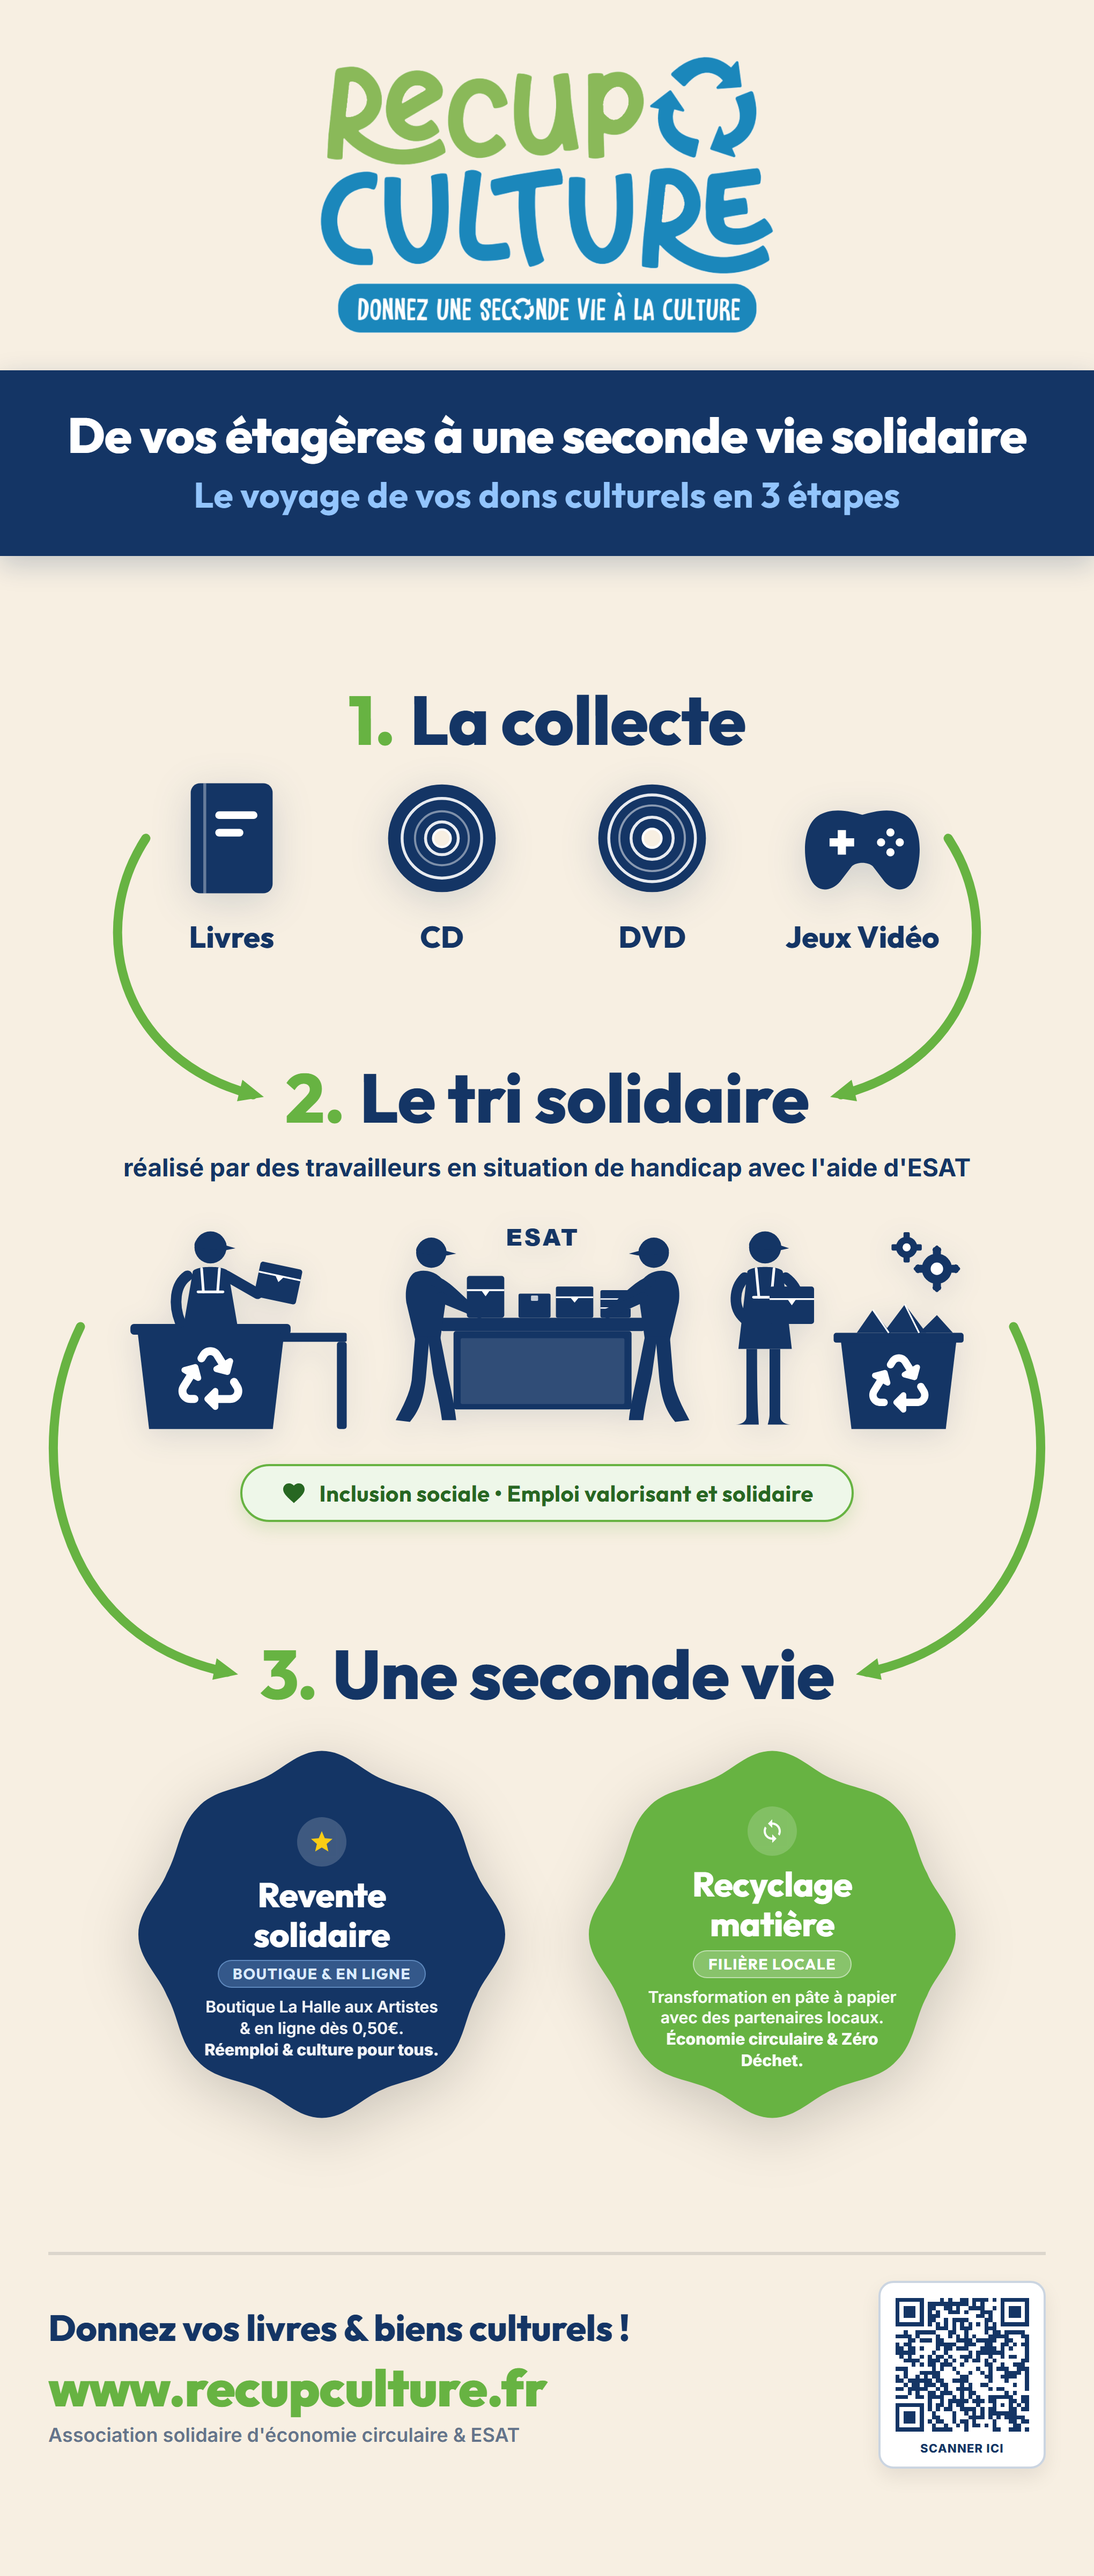
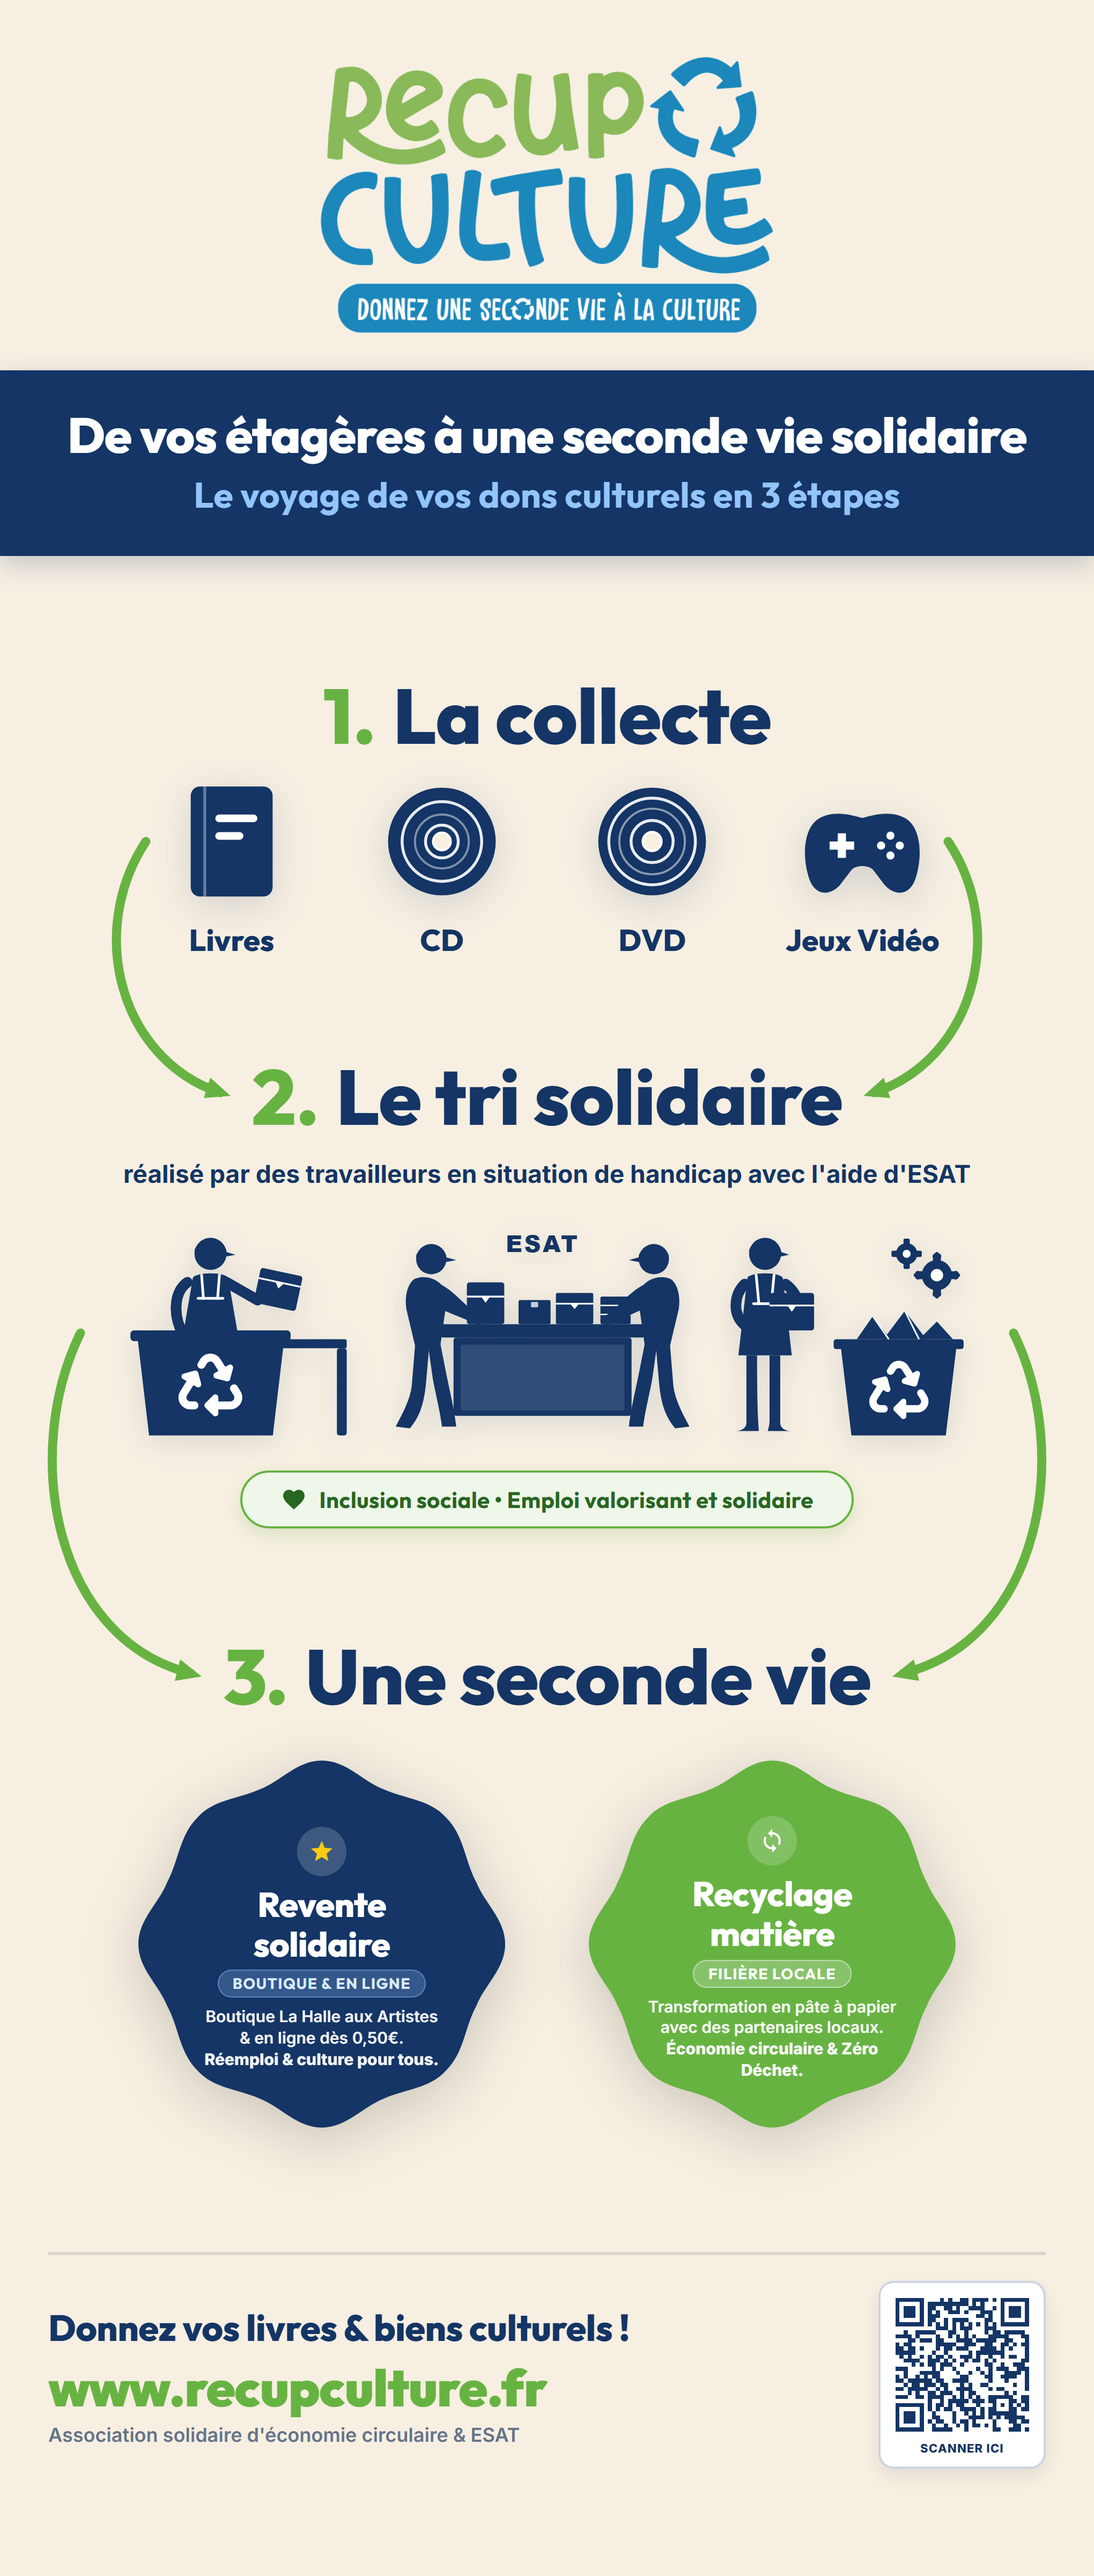
style(kakemono): agrandissement des titres des etapes a 72px pour une meilleure visibilite

diff --git a/communication/kakemono/kakemono-1-art.html b/communication/kakemono/kakemono-1-art.html
@@ -113,18 +113,18 @@
       position: relative;
     }
 
-    /* Titres des 3 étapes UNIFORMES 64px – réduction du vide */
+    /* Titres des 3 étapes UNIFORMES 72px – lisibilité et présence renforcées */
     .step-title {
       font-family: 'Outfit', sans-serif;
-      font-size: 64px;
+      font-size: 72px;
       font-weight: 800;
       color: #143565;
       letter-spacing: -0.5px;
       display: inline-flex;
       align-items: center;
       justify-content: center;
-      gap: 14px;
-      margin-bottom: 10px;
+      gap: 16px;
+      margin-bottom: 12px;
     }
 
     .step-title .num-badge {
